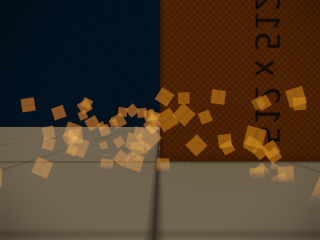
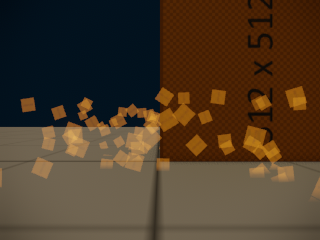
Reverted mesh importing behavior back to how it was before. Fixed pin context menu in render pipeline assets to not contain the "debug" option

diff --git a/Data/UnitTests/GameEngineTest/TypeScript/TypeScript/ez/AllComponents.ts b/Data/UnitTests/GameEngineTest/TypeScript/TypeScript/ez/AllComponents.ts
@@ -90,16 +90,11 @@ export class SkinnedMeshComponent extends MeshComponentBase
 export class AnimatedMeshComponent extends SkinnedMeshComponent
 {
   public static GetTypeNameHash(): number { return 1354920640; }
-  get AnimationClip(): string { return __CPP_ComponentProperty_get(this, 1370598076); }
-  set AnimationClip(value: string) { __CPP_ComponentProperty_set(this, 1370598076, value); }
-  get Loop(): boolean { return __CPP_ComponentProperty_get(this, 1941506410); }
-  set Loop(value: boolean) { __CPP_ComponentProperty_set(this, 1941506410, value); }
-  get Speed(): number { return __CPP_ComponentProperty_get(this, 3166086532); }
-  set Speed(value: number) { __CPP_ComponentProperty_set(this, 3166086532, value); }
-  get ApplyRootMotion(): boolean { return __CPP_ComponentProperty_get(this, 1680768189); }
-  set ApplyRootMotion(value: boolean) { __CPP_ComponentProperty_set(this, 1680768189, value); }
-  get VisualizeSkeleton(): boolean { return __CPP_ComponentProperty_get(this, 1571306042); }
-  set VisualizeSkeleton(value: boolean) { __CPP_ComponentProperty_set(this, 1571306042, value); }
+}
+
+export class AnimationControllerComponent extends Component
+{
+  public static GetTypeNameHash(): number { return 2010632600; }
 }
 
 export class AreaDamageComponent extends Component
@@ -496,11 +491,6 @@ export class MarkerComponent extends Component
   set Marker(value: string) { __CPP_ComponentProperty_set(this, 3679528792, value); }
   get Radius(): number { return __CPP_ComponentProperty_get(this, 169547257); }
   set Radius(value: number) { __CPP_ComponentProperty_set(this, 169547257, value); }
-}
-
-export class MotionMatchingComponent extends SkinnedMeshComponent
-{
-  public static GetTypeNameHash(): number { return 3085935728; }
 }
 
 export class MoveToComponent extends Component
@@ -1103,6 +1093,17 @@ export class ShapeIconComponent extends Component
   public static GetTypeNameHash(): number { return 2471278007; }
 }
 
+export class SimpleAnimationComponent extends Component
+{
+  public static GetTypeNameHash(): number { return 1429380739; }
+  get AnimationClip(): string { return __CPP_ComponentProperty_get(this, 988413700); }
+  set AnimationClip(value: string) { __CPP_ComponentProperty_set(this, 988413700, value); }
+  get AnimationMode(): Enum.PropertyAnimMode { return __CPP_ComponentProperty_get(this, 3720309437); }
+  set AnimationMode(value: Enum.PropertyAnimMode) { __CPP_ComponentProperty_set(this, 3720309437, value); }
+  get Speed(): number { return __CPP_ComponentProperty_get(this, 2462592905); }
+  set Speed(value: number) { __CPP_ComponentProperty_set(this, 2462592905, value); }
+}
+
 export class SimpleWindComponent extends Component
 {
   public static GetTypeNameHash(): number { return 3333981950; }
@@ -1112,6 +1113,15 @@ export class SimpleWindComponent extends Component
   set MaxStrength(value: number) { __CPP_ComponentProperty_set(this, 888413558, value); }
   get Deviation(): number { return __CPP_ComponentProperty_get(this, 3227694086); }
   set Deviation(value: number) { __CPP_ComponentProperty_set(this, 3227694086, value); }
+}
+
+export class SkeletonComponent extends RenderComponent
+{
+  public static GetTypeNameHash(): number { return 1542012656; }
+  get Skeleton(): string { return __CPP_ComponentProperty_get(this, 273592199); }
+  set Skeleton(value: string) { __CPP_ComponentProperty_set(this, 273592199, value); }
+  get VisualizeSkeleton(): boolean { return __CPP_ComponentProperty_get(this, 1615548791); }
+  set VisualizeSkeleton(value: boolean) { __CPP_ComponentProperty_set(this, 1615548791, value); }
 }
 
 export class SkyBoxComponent extends RenderComponent
@@ -1248,12 +1258,5 @@ export class VisualScriptComponent extends EventMessageHandlerComponent
 export class VisualizeHandComponent extends Component
 {
   public static GetTypeNameHash(): number { return 606529222; }
-}
-
-export class VisualizeSkeletonComponent extends RenderComponent
-{
-  public static GetTypeNameHash(): number { return 4224311822; }
-  get Skeleton(): string { return __CPP_ComponentProperty_get(this, 2496540722); }
-  set Skeleton(value: string) { __CPP_ComponentProperty_set(this, 2496540722, value); }
 }
 

diff --git a/Data/UnitTests/GameEngineTest/TypeScript/TypeScript/ez.ts b/Data/UnitTests/GameEngineTest/TypeScript/TypeScript/ez.ts
@@ -71,6 +71,7 @@ export import AmbientLightComponent = __AllComponents.AmbientLightComponent;
 export import MeshComponentBase = __AllComponents.MeshComponentBase;
 export import SkinnedMeshComponent = __AllComponents.SkinnedMeshComponent;
 export import AnimatedMeshComponent = __AllComponents.AnimatedMeshComponent;
+export import AnimationControllerComponent = __AllComponents.AnimationControllerComponent;
 export import AreaDamageComponent = __AllComponents.AreaDamageComponent;
 export import BeamComponent = __AllComponents.BeamComponent;
 export import BreakableSheetComponent = __AllComponents.BreakableSheetComponent;
@@ -99,7 +100,6 @@ export import JointAttachmentComponent = __AllComponents.JointAttachmentComponen
 export import KrautTreeComponent = __AllComponents.KrautTreeComponent;
 export import LineToComponent = __AllComponents.LineToComponent;
 export import MarkerComponent = __AllComponents.MarkerComponent;
-export import MotionMatchingComponent = __AllComponents.MotionMatchingComponent;
 export import MoveToComponent = __AllComponents.MoveToComponent;
 export import NpcComponent = __AllComponents.NpcComponent;
 export import ParticleComponent = __AllComponents.ParticleComponent;
@@ -148,7 +148,9 @@ export import RmlUiCanvas2DComponent = __AllComponents.RmlUiCanvas2DComponent;
 export import TransformComponent = __AllComponents.TransformComponent;
 export import RotorComponent = __AllComponents.RotorComponent;
 export import ShapeIconComponent = __AllComponents.ShapeIconComponent;
+export import SimpleAnimationComponent = __AllComponents.SimpleAnimationComponent;
 export import SimpleWindComponent = __AllComponents.SimpleWindComponent;
+export import SkeletonComponent = __AllComponents.SkeletonComponent;
 export import SkyBoxComponent = __AllComponents.SkyBoxComponent;
 export import SkyLightComponent = __AllComponents.SkyLightComponent;
 export import SliderComponent = __AllComponents.SliderComponent;
@@ -162,7 +164,6 @@ export import StageSpaceComponent = __AllComponents.StageSpaceComponent;
 export import TimedDeathComponent = __AllComponents.TimedDeathComponent;
 export import VisualScriptComponent = __AllComponents.VisualScriptComponent;
 export import VisualizeHandComponent = __AllComponents.VisualizeHandComponent;
-export import VisualizeSkeletonComponent = __AllComponents.VisualizeSkeletonComponent;
 
 
 
@@ -189,6 +190,7 @@ export import MsgOnlyApplyToObject = __AllMessages.MsgOnlyApplyToObject;
 export import MsgPhysicsAddForce = __AllMessages.MsgPhysicsAddForce;
 export import MsgPhysicsAddImpulse = __AllMessages.MsgPhysicsAddImpulse;
 export import MsgPhysicsJointBroke = __AllMessages.MsgPhysicsJointBroke;
+export import MsgQueryAnimationSkeleton = __AllMessages.MsgQueryAnimationSkeleton;
 export import MsgRmlUiReload = __AllMessages.MsgRmlUiReload;
 export import MsgSetColor = __AllMessages.MsgSetColor;
 export import MsgSetFloatParameter = __AllMessages.MsgSetFloatParameter;

diff --git a/Data/UnitTests/GameEngineTest/TypeScript/TypeScript/ez/AllMessages.ts b/Data/UnitTests/GameEngineTest/TypeScript/TypeScript/ez/AllMessages.ts
@@ -182,6 +182,12 @@ export class MsgPhysicsJointBroke extends EventMessage
   constructor() { super(); this.TypeNameHash = 4089742341; }
 }
 
+export class MsgQueryAnimationSkeleton extends Message
+{
+  public static GetTypeNameHash(): number { return 1559971141; }
+  constructor() { super(); this.TypeNameHash = 1559971141; }
+}
+
 export class MsgRmlUiReload extends Message
 {
   public static GetTypeNameHash(): number { return 2540580649; }

diff --git a/Code/EditorPlugins/ProcGen/EditorPluginProcGen/ProcGenGraphAsset/ProcGenNodeManager.cpp b/Code/EditorPlugins/ProcGen/EditorPluginProcGen/ProcGenGraphAsset/ProcGenNodeManager.cpp
@@ -8,6 +8,9 @@
 #include <ToolsFoundation/Command/NodeCommands.h>
 
 // clang-format off
+EZ_BEGIN_DYNAMIC_REFLECTED_TYPE(ezProcGenPin, 1, ezRTTINoAllocator)
+EZ_END_DYNAMIC_REFLECTED_TYPE;
+
 EZ_BEGIN_SUBSYSTEM_DECLARATION(EditorFramework, ProcGen)
 
   BEGIN_SUBSYSTEM_DEPENDENCIES
@@ -19,7 +22,7 @@ EZ_BEGIN_SUBSYSTEM_DECLARATION(EditorFramework, ProcGen)
   {
     const ezRTTI* pBaseType = ezGetStaticRTTI<ezProcGenNodeBase>();
 
-    ezQtNodeScene::GetPinFactory().RegisterCreator(ezGetStaticRTTI<ezPin>(), [](const ezRTTI* pRtti)->ezQtPin* { return new ezQtProcGenPin(); });
+    ezQtNodeScene::GetPinFactory().RegisterCreator(ezGetStaticRTTI<ezProcGenPin>(), [](const ezRTTI* pRtti)->ezQtPin* { return new ezQtProcGenPin(); });
     ezQtNodeScene::GetNodeFactory().RegisterCreator(pBaseType, [](const ezRTTI* pRtti)->ezQtNode* { return new ezQtProcGenNode(); });
   }
 
@@ -65,12 +68,12 @@ void ezProcGenNodeManager::InternalCreatePins(const ezDocumentObject* pObject, N
 
     if (pPropType->IsDerivedFrom<ezRenderPipelineNodeInputPin>())
     {
-      ezPin* pPin = EZ_DEFAULT_NEW(ezPin, ezPin::Type::Input, pProp->GetPropertyName(), pinColor, pObject);
+      ezPin* pPin = EZ_DEFAULT_NEW(ezProcGenPin, ezPin::Type::Input, pProp->GetPropertyName(), pinColor, pObject);
       node.m_Inputs.PushBack(pPin);
     }
     else if (pPropType->IsDerivedFrom<ezRenderPipelineNodeOutputPin>())
     {
-      ezPin* pPin = EZ_DEFAULT_NEW(ezPin, ezPin::Type::Output, pProp->GetPropertyName(), pinColor, pObject);
+      ezPin* pPin = EZ_DEFAULT_NEW(ezProcGenPin, ezPin::Type::Output, pProp->GetPropertyName(), pinColor, pObject);
       node.m_Outputs.PushBack(pPin);
     }
   }

diff --git a/Code/EditorPlugins/Assets/EditorPluginAssets/SkeletonAsset/SkeletonAsset.cpp b/Code/EditorPlugins/Assets/EditorPluginAssets/SkeletonAsset/SkeletonAsset.cpp
@@ -11,7 +11,7 @@
 //////////////////////////////////////////////////////////////////////////
 
 // clang-format off
-EZ_BEGIN_DYNAMIC_REFLECTED_TYPE(ezSkeletonAssetDocument, 3, ezRTTINoAllocator)
+EZ_BEGIN_DYNAMIC_REFLECTED_TYPE(ezSkeletonAssetDocument, 4, ezRTTINoAllocator)
 EZ_END_DYNAMIC_REFLECTED_TYPE;
 // clang-format on
 
@@ -19,7 +19,7 @@ static ezMat3 CalculateTransformationMatrix(const ezEditableSkeleton* pProp)
 {
   const float us = ezMath::Clamp(pProp->m_fUniformScaling, 0.0001f, 10000.0f);
 
-  const ezBasisAxis::Enum forwardDir = ezBasisAxis::GetOrthogonalAxis(pProp->m_RightDir, pProp->m_UpDir, pProp->m_bFlipForwardDir);
+  const ezBasisAxis::Enum forwardDir = ezBasisAxis::GetOrthogonalAxis(pProp->m_RightDir, pProp->m_UpDir, !pProp->m_bFlipForwardDir);
 
   return ezBasisAxis::CalculateTransformationMatrix(forwardDir, pProp->m_RightDir, pProp->m_UpDir, us);
 }

diff --git a/Code/EditorPlugins/PhysX/EditorPluginPhysX/CollisionMeshAsset/CollisionMeshAsset.cpp b/Code/EditorPlugins/PhysX/EditorPluginPhysX/CollisionMeshAsset/CollisionMeshAsset.cpp
@@ -22,7 +22,7 @@
 #include <RendererCore/Meshes/MeshResourceDescriptor.h>
 
 // clang-format off
-EZ_BEGIN_DYNAMIC_REFLECTED_TYPE(ezCollisionMeshAssetDocument, 7, ezRTTINoAllocator)
+EZ_BEGIN_DYNAMIC_REFLECTED_TYPE(ezCollisionMeshAssetDocument, 8, ezRTTINoAllocator)
 EZ_END_DYNAMIC_REFLECTED_TYPE;
 // clang-format on
 
@@ -30,7 +30,7 @@ static ezMat3 CalculateTransformationMatrix(const ezCollisionMeshAssetProperties
 {
   const float us = ezMath::Clamp(pProp->m_fUniformScaling, 0.0001f, 10000.0f);
 
-  const ezBasisAxis::Enum forwardDir = ezBasisAxis::GetOrthogonalAxis(pProp->m_RightDir, pProp->m_UpDir, pProp->m_bFlipForwardDir);
+  const ezBasisAxis::Enum forwardDir = ezBasisAxis::GetOrthogonalAxis(pProp->m_RightDir, pProp->m_UpDir, !pProp->m_bFlipForwardDir);
 
   return ezBasisAxis::CalculateTransformationMatrix(forwardDir, pProp->m_RightDir, pProp->m_UpDir, us);
 }

diff --git a/Code/EditorPlugins/Assets/EditorPluginAssets/AnimatedMeshAsset/AnimatedMeshAsset.cpp b/Code/EditorPlugins/Assets/EditorPluginAssets/AnimatedMeshAsset/AnimatedMeshAsset.cpp
@@ -9,7 +9,7 @@
 #include <RendererCore/Meshes/MeshResourceDescriptor.h>
 
 // clang-format off
-EZ_BEGIN_DYNAMIC_REFLECTED_TYPE(ezAnimatedMeshAssetDocument, 6, ezRTTINoAllocator)
+EZ_BEGIN_DYNAMIC_REFLECTED_TYPE(ezAnimatedMeshAssetDocument, 7, ezRTTINoAllocator)
 EZ_END_DYNAMIC_REFLECTED_TYPE;
 // clang-format on
 
@@ -17,7 +17,7 @@ static ezMat3 CalculateTransformationMatrix(const ezAnimatedMeshAssetProperties*
 {
   const float us = ezMath::Clamp(pProp->m_fUniformScaling, 0.0001f, 10000.0f);
 
-  const ezBasisAxis::Enum forwardDir = ezBasisAxis::GetOrthogonalAxis(pProp->m_RightDir, pProp->m_UpDir, pProp->m_bFlipForwardDir);
+  const ezBasisAxis::Enum forwardDir = ezBasisAxis::GetOrthogonalAxis(pProp->m_RightDir, pProp->m_UpDir, !pProp->m_bFlipForwardDir);
 
   return ezBasisAxis::CalculateTransformationMatrix(forwardDir, pProp->m_RightDir, pProp->m_UpDir, us);
 }

diff --git a/Code/EditorPlugins/Assets/EditorPluginAssets/MeshAsset/MeshAsset.cpp b/Code/EditorPlugins/Assets/EditorPluginAssets/MeshAsset/MeshAsset.cpp
@@ -11,7 +11,7 @@
 #include <RendererCore/Meshes/MeshResourceDescriptor.h>
 
 // clang-format off
-EZ_BEGIN_DYNAMIC_REFLECTED_TYPE(ezMeshAssetDocument, 11, ezRTTINoAllocator)
+EZ_BEGIN_DYNAMIC_REFLECTED_TYPE(ezMeshAssetDocument, 12, ezRTTINoAllocator)
 EZ_END_DYNAMIC_REFLECTED_TYPE;
 // clang-format on
 
@@ -19,7 +19,7 @@ static ezMat3 CalculateTransformationMatrix(const ezMeshAssetProperties* pProp)
 {
   const float us = ezMath::Clamp(pProp->m_fUniformScaling, 0.0001f, 10000.0f);
 
-  const ezBasisAxis::Enum forwardDir = ezBasisAxis::GetOrthogonalAxis(pProp->m_RightDir, pProp->m_UpDir, pProp->m_bFlipForwardDir);
+  const ezBasisAxis::Enum forwardDir = ezBasisAxis::GetOrthogonalAxis(pProp->m_RightDir, pProp->m_UpDir, !pProp->m_bFlipForwardDir);
 
   return ezBasisAxis::CalculateTransformationMatrix(forwardDir, pProp->m_RightDir, pProp->m_UpDir, us);
 }

diff --git a/Code/EditorPlugins/ProcGen/EditorPluginProcGen/ProcGenGraphAsset/ProcGenNodeManager.h b/Code/EditorPlugins/ProcGen/EditorPluginProcGen/ProcGenGraphAsset/ProcGenNodeManager.h
@@ -6,6 +6,14 @@
 #include <GuiFoundation/NodeEditor/NodeScene.moc.h>
 #include <GuiFoundation/NodeEditor/Pin.h>
 
+class ezProcGenPin : public ezPin
+{
+  EZ_ADD_DYNAMIC_REFLECTION(ezProcGenPin, ezPin);
+
+public:
+  using ezPin::ezPin;
+};
+
 class ezProcGenNodeManager : public ezDocumentNodeManager
 {
 public:
